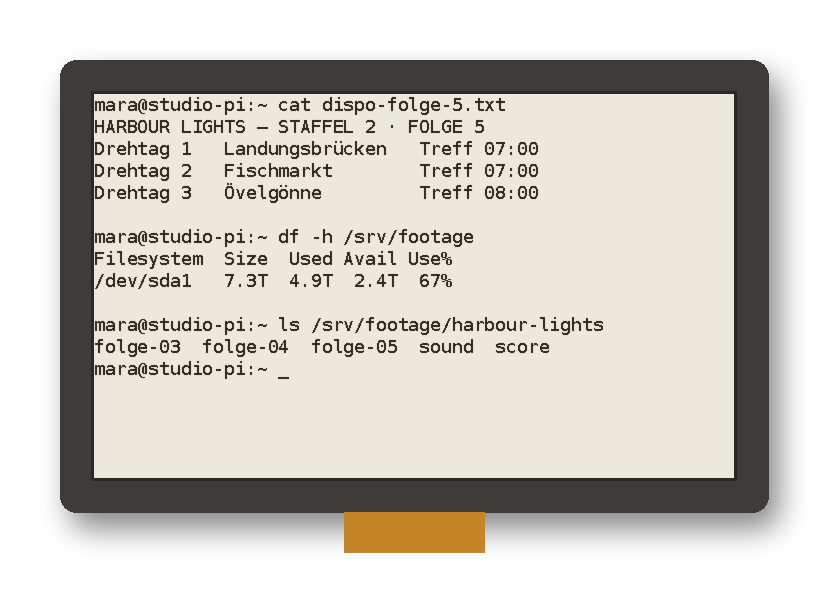
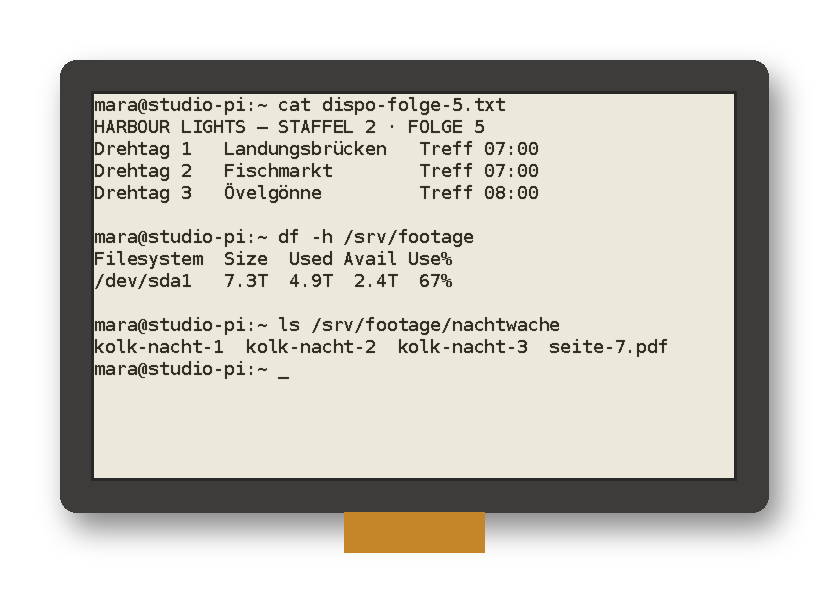
Show the rendered e-ink terminal on the landing page

Changed region(s): [[0.5737, 0.5278, 0.8152, 0.5899], [0.151, 0.5588, 0.5435, 0.5899]]

diff --git a/docs/index.html b/docs/index.html
@@ -45,7 +45,7 @@
       <p class="install-note" lang="en">Also: <a href="https://github.com/shrippen/PaperTTY/blob/main/install/gui.sh">Desktop / XFCE installer</a></p><p class="install-note" lang="de">Außerdem: <a href="https://github.com/shrippen/PaperTTY/blob/main/install/gui.sh">Desktop- / XFCE-Installer</a></p>
       <div class="install-links"><a class="btn btn-primary" href="https://github.com/shrippen/PaperTTY">GitHub</a><a class="btn btn-ghost" href="https://github.com/shrippen/PaperTTY/releases/tag/v1.0.0"><span lang="en">Release 1.0.0</span><span lang="de">Release 1.0.0</span></a><a class="btn btn-ghost" href="https://github.com/shrippen/PaperTTY/wiki">Wiki</a></div>
     </div>
-    
+    <div class="hero-shot"><img lang="en" src="shots/terminal-en.png" alt="A terminal session rendered by the Bitmap driver on an e-ink panel (demo data)"><img lang="de" src="shots/terminal-de.png" alt="Eine Terminal-Sitzung, vom Bitmap-Treiber auf ein E-Ink-Panel gezeichnet (Demodaten)"></div>
   </div>
 </header>
 
